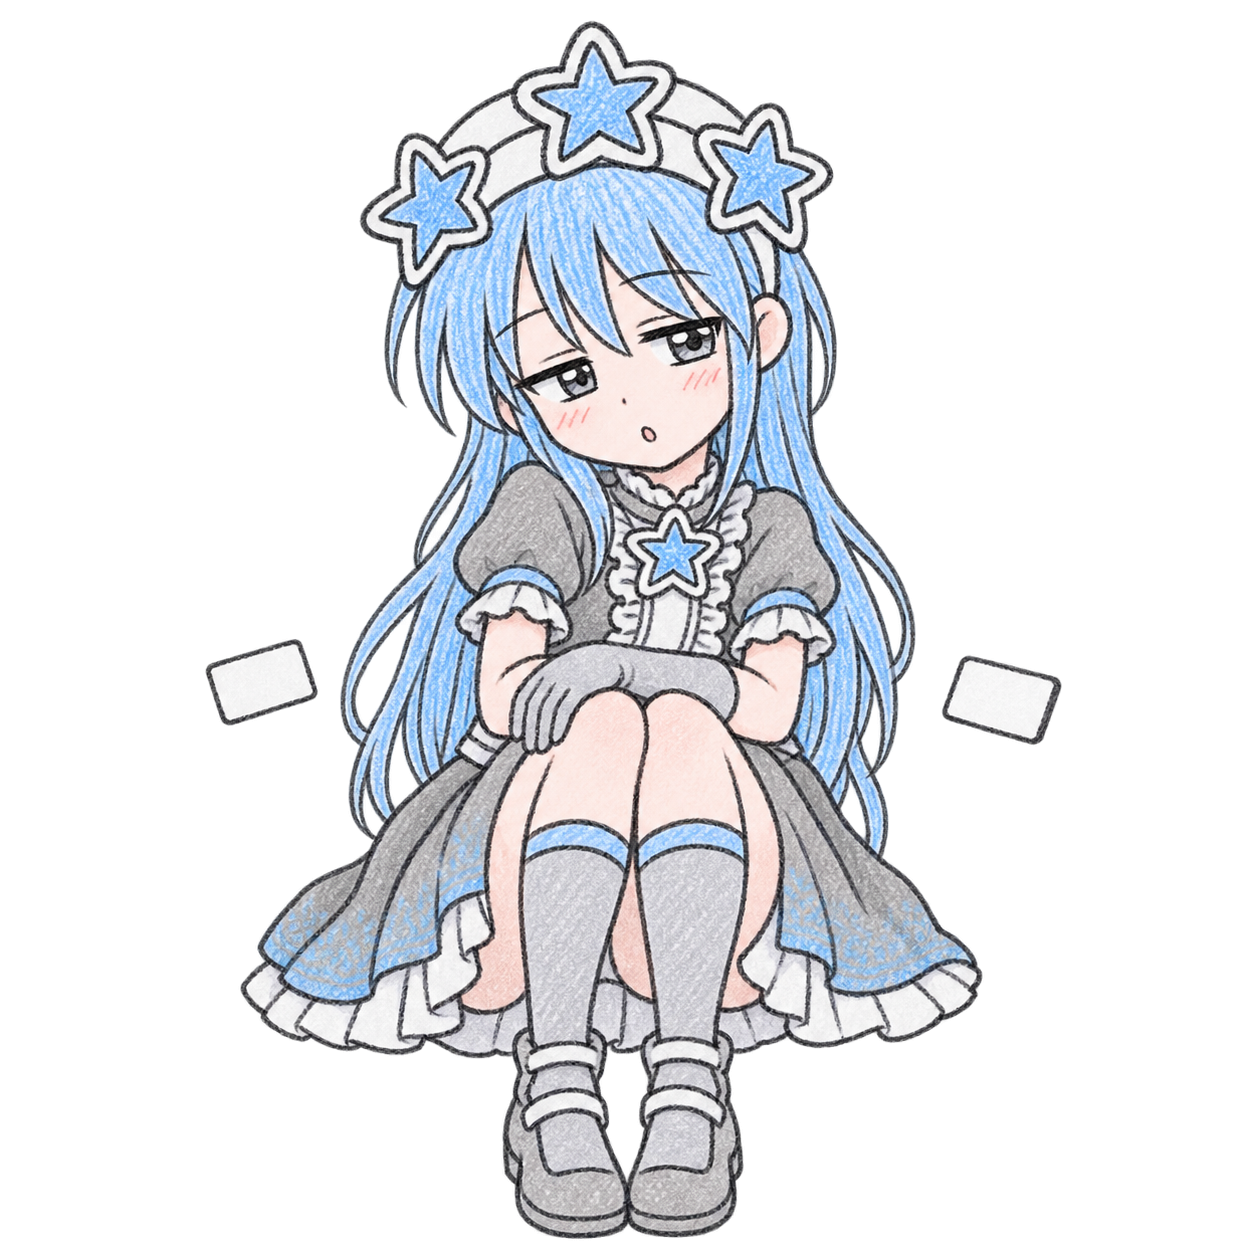
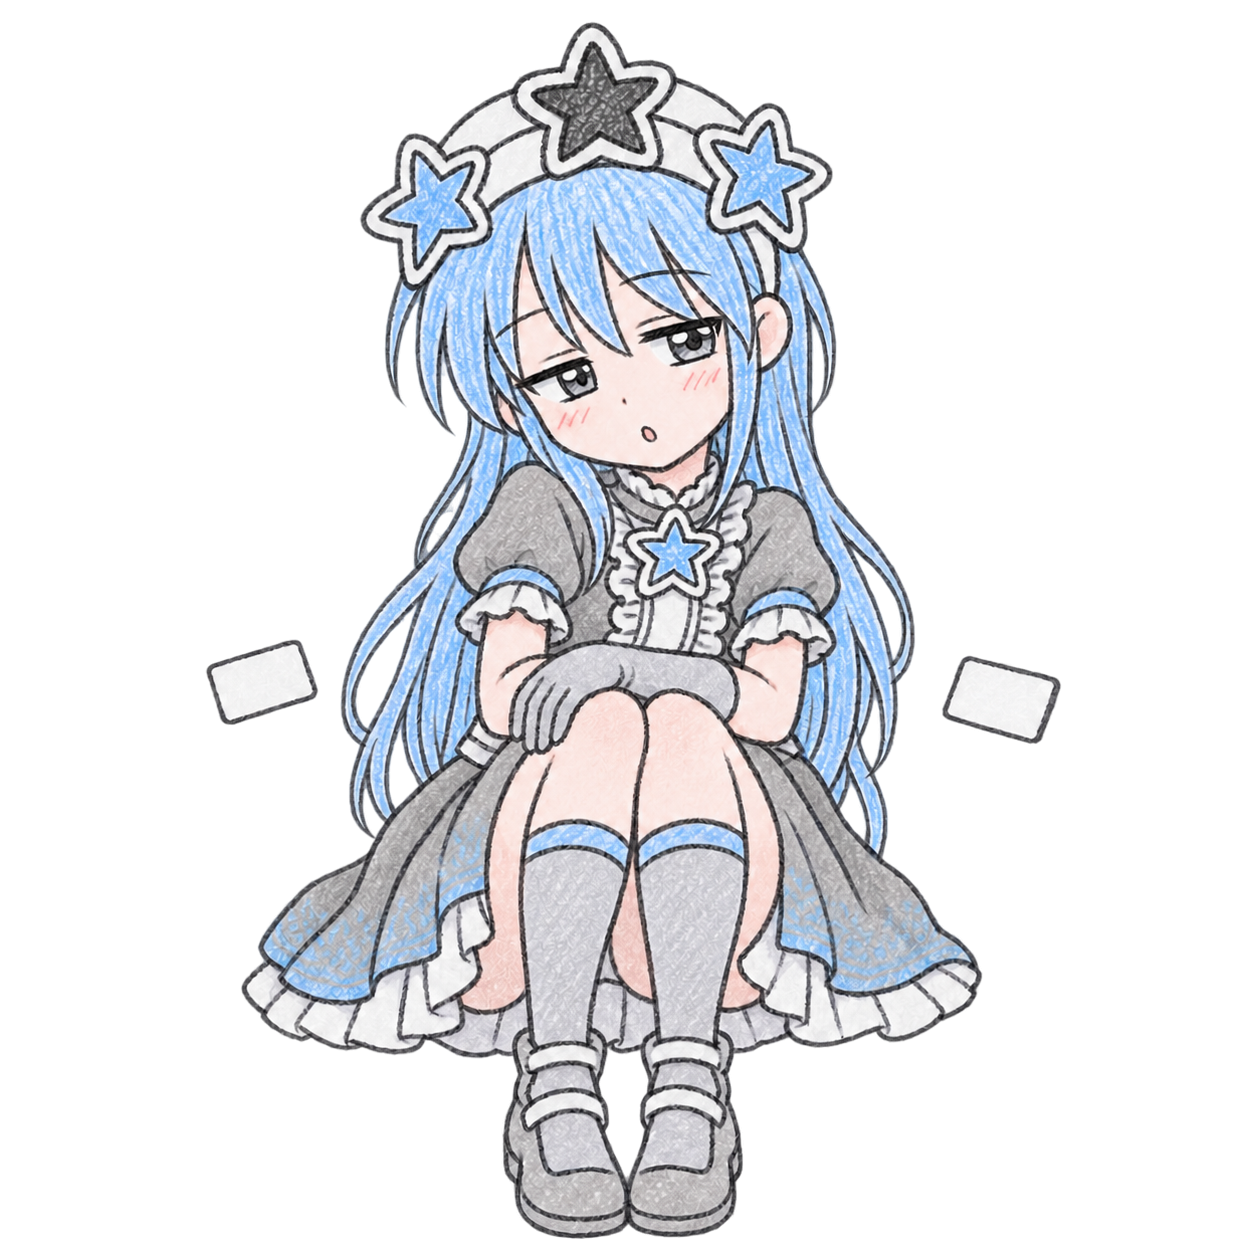
Darken one neglected Anki-tan star
Apply hill's requested headband change, approved by Aldana. Preserve the
earlier generated master in its archive and record the prompt, hashes,
licence and alpha cleanup. Canonical exports follow from Linux CI.

Generated with OpenAI image_gen; its model identifier was not exposed.

Assisted-by: Codex (GPT-6)

diff --git a/docs/ankitan-full-2026-11/README.md b/docs/ankitan-full-2026-11/README.md
@@ -43,7 +43,17 @@ The active masters use the fixture's pose names directly under
 under the same licence. The earlier asleep, sad and neglected master names
 are kept byte for byte in `static/anki-tan/archive/`. The published generated
 frozen files remain in place. These canonical
-paths are exact copies of those approved masters, without new processing.
+asleep and sad paths are exact copies of those approved masters.
+
+Hill requested one unlit headband star for neglected, two for abandoned and
+three for dead in [#88](https://github.com/AnkiQuest/AnkiQuest-Desktop/issues/88#issuecomment-6920200927).
+Aldana approved the revised neglected image on 2026-11-16. Only neglected
+changes here; the other two poses remain future work. The earlier neglected
+master stays byte for byte in `static/anki-tan/archive/neglected-full.png`.
+[The edit record](neglected-revision.json) contains the prompt, model
+disclosure, hashes and cleanup measurements. The new master was inspected
+at full size and 64 px on light and dark backgrounds. Its exports need a
+fresh canonical Linux run.
 
 The asleep export is now `anki_tan_asleep`. Its PNG is the byte-identical
 Linux export formerly named `anki_tan_sleeping`, which is preserved under

diff --git a/anki-tan/archive/README.md b/anki-tan/archive/README.md
@@ -1,6 +1,6 @@
 # Preserved Anki-tan files
 
-Earlier names for approved generated poses and one generated desktop export.
+Earlier approved generated poses and one generated desktop export.
 These files are retained byte for byte; active masters use the core pose names
 in the parent directory. The archived export is outside the add-on package.
 
@@ -17,6 +17,8 @@ Generated with OpenAI image_gen; its model identifier was not exposed.
 
 The three master paths were relative to static/anki-tan/. The export path
 was relative to the repository. Published generated frozen files stay in place.
+The archived neglected pose retains all three blue headband stars; the active
+revision has one unlit star, requested by hill and approved by Aldana.
 
 [Aldana Belen Rodriguez approved this archive](https://github.com/AnkiQuest/AnkiQuest-Desktop/issues/88#issuecomment-6918911105).
 Generation and cleanup records are in
